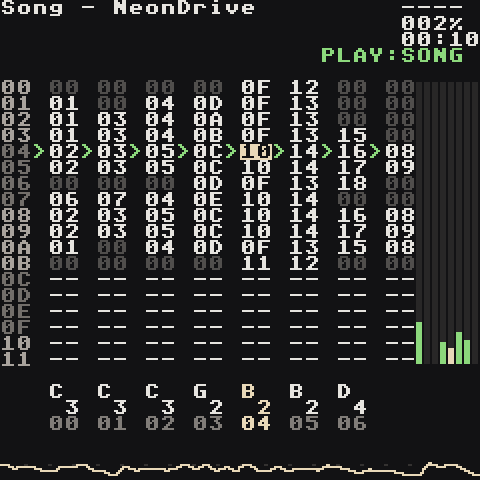
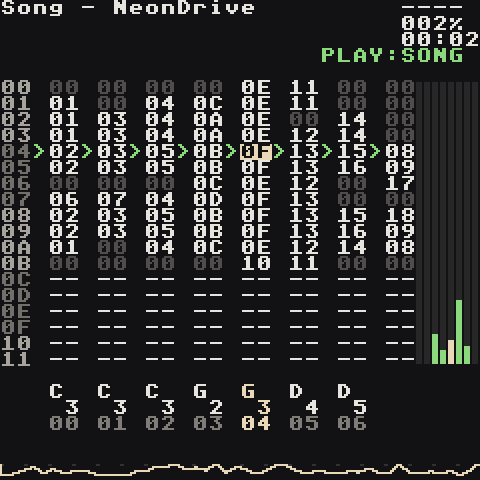
Demo Songs page for the revamped demos; Neon Drive wiki shots
Demo-Songs.md describes what each reworked demo now shows: Neon Drive's
drum-engine kit and sidechained bass, Jade Sword's PHYS temple bell and
counter-melody, Pixel Quest's table arpeggios and key change, Engine
Room's two sections, Sunset Club's swing, sidechain on a sample, congas
and horn hook, with the new lengths. The Samples page links to the renamed
Sunset Club heading, and the in-app guide is rebuilt.

capture_wiki_screens.py --demo NeonDrive re-shoots just one demo's screens
after the song changes; the Neon Drive shots are refreshed with it.

Claude-Session: https://claude.ai/code/session_012C3tn4FZYYhhPVgyuumQvx

diff --git a/tools/capture_wiki_screens.py b/tools/capture_wiki_screens.py
@@ -7,10 +7,12 @@ in docs/rgnano-wiki/images/.
 
 Usage:
     python tools/capture_wiki_screens.py
+    python tools/capture_wiki_screens.py --demo NeonDrive   # only that demo's screens
 """
 
 from __future__ import annotations
 
+import argparse
 import shutil
 import subprocess
 import sys
@@ -54,10 +56,33 @@ def run_demo(name: str, script: Path) -> None:
             last.write_text(saved)
 
 
+DEMO_SCRIPTS = {"NeonDrive": "wiki-shots-demo.rgsim", "Afterglow": "wiki-shots-afterglow.rgsim"}
+
+
+def convert() -> int:
+    """Every wiki-*.bmp capture -> a crisp 2x PNG in the wiki's images."""
+    count = 0
+    for bmp in sorted(ROOT.glob("wiki-*.bmp")):
+        img = Image.open(bmp).convert("RGB")
+        img = img.resize((img.width * 2, img.height * 2), Image.NEAREST)
+        img.save(IMAGES / (bmp.stem.replace("wiki-", "") + ".png"), optimize=True)
+        bmp.unlink()
+        count += 1
+    print(f"wrote {count} screenshots to {IMAGES}")
+    return count
+
+
 def main() -> int:
+    parser = argparse.ArgumentParser(description=__doc__, formatter_class=argparse.RawDescriptionHelpFormatter)
+    parser.add_argument("--demo", choices=sorted(DEMO_SCRIPTS),
+                        help="only re-shoot this demo song's screens (after changing the song)")
+    args = parser.parse_args()
     IMAGES.mkdir(parents=True, exist_ok=True)
     for old in ROOT.glob("wiki-*.bmp"):
         old.unlink()
+    if args.demo:
+        run_demo(args.demo, SCRIPTS / DEMO_SCRIPTS[args.demo])
+        return 0 if convert() else 1
 
     # Shoot the start screen with only the demo songs listed, not the
     # throwaway projects earlier sim runs leave behind
@@ -79,18 +104,9 @@ def main() -> int:
             parked.rename(tracks)
 
     # Demo screens: open each demo through AUTO_LOAD_LAST
-    for demo_name, script in (("NeonDrive", "wiki-shots-demo.rgsim"), ("Afterglow", "wiki-shots-afterglow.rgsim")):
+    for demo_name, script in DEMO_SCRIPTS.items():
         run_demo(demo_name, SCRIPTS / script)
-
-    count = 0
-    for bmp in sorted(ROOT.glob("wiki-*.bmp")):
-        img = Image.open(bmp).convert("RGB")
-        img = img.resize((img.width * 2, img.height * 2), Image.NEAREST)
-        img.save(IMAGES / (bmp.stem.replace("wiki-", "") + ".png"), optimize=True)
-        bmp.unlink()
-        count += 1
-    print(f"wrote {count} screenshots to {IMAGES}")
-    return 0 if count else 1
+    return 0 if convert() else 1
 
 
 if __name__ == "__main__":

diff --git a/docs/rgnano-wiki/Demo-Songs.md b/docs/rgnano-wiki/Demo-Songs.md
@@ -36,22 +36,27 @@ The melodic house track [Your First Song](Your-First-Song) builds press by press
 
 `lgpt_NeonDrive` · A minor · 100 BPM · 1:55
 
+A night drive: an 80s drum machine with a huge snare, a pumping octave bass, a glassy arpeggio and a singing lead.
+
 | Track | Part |
 | --- | --- |
-| 1 | kick (half-time verses, four-on-the-floor choruses) |
-| 2 | snare with reverb, fill at the end of every 4 bars |
-| 3 | hats, accented 16ths in the chorus |
-| 4 | octave-jumping 8th-note bass |
-| 5 | pad chords, one note + `CHRD` per bar |
-| 6 | pluck arpeggio |
-| 7 | lead melody (a bell takes it in the break) |
-| 8 | crash and tom fills |
+| 1 | DRUM engine `909 kick` (half-time verses, four on the floor in the choruses) |
+| 2 | DRUM engine `909 snare` with a big reverb send, a fill every 4 bars |
+| 3 | DRUM engine `808 hat`, 8ths in the verses; accented 16ths and `808 open` offbeats in the choruses |
+| 4 | octave-jumping 8th-note bass, **ducked by the kick** (MOD `trig`, `source 1`) |
+| 5 | pad chords, one note + `CHRD` per bar, voiced around A3 with its lows cut (EQ) |
+| 6 | pluck arpeggio above the pad (every other 16th in the verses) |
+| 7 | lead melody, an octave up for the choruses (a bell takes it in the break and doubles it in the last chorus) |
+| 8 | crash, tom fills and the bell |
 
 **Look at:**
-- **Song rows 00–0B** — each row is a section: intro, verse, chorus, break, build, outro.
+- **Song rows 00–0B** — each row is a section: intro, verse, chorus, break, build, chorus, outro.
+- **The sidechain pump** — instrument `03`'s MOD page: a `trig` slot on `volume`, `amount -90`, fired by track 1. The bass plays on the kicks but dips out of their way, so the low end stays clear.
 - **Track 6 in the intro** — only the first note has an instrument number, so the `FCUT 60C0` filter sweep keeps opening across four bars.
-- **Track 5** — chords are voiced as inversions (`C 3` + `CHRD 0059`), so they move smoothly instead of jumping.
+- **Track 5** — chords are voiced as inversions (one note + `CHRD`), so they move smoothly instead of jumping.
+- **The lead** — `LEGA` slides into the verse notes, `VIBR` makes the long ones sing.
 - **The build** — a snare crescendo with `VOLM`, then `RTRG 0003` for a 32nd-note roll into the drop.
+- **The mixer, master EQ and limiter are untouched**: the whole balance is instrument volumes and sends.
 
 ## Jade Sword — wuxia / donghua
 
@@ -64,15 +69,16 @@ Neon Drive's song map re-scored for a martial-arts epic, played on **recordings 
 | 1 | dagu (big drum) with rim hits |
 | 2 | Beijing-opera percussion: bangu clapper drum, small gong, cymbals |
 | 3 | temple block in the verses, pipa plucks in the second chorus |
-| 4 | sub bass on the chord roots (synth) |
-| 5 | soft string pad (synth) |
-| 6 | guzheng — flowing broken chords and glissandos |
+| 4 | sub bass on the chord roots (synth), kept under the drum |
+| 5 | soft string pad (synth), lows cut with its EQ |
+| 6 | guzheng — flowing broken chords from the chord root up, and glissandos |
 | 7 | erhu — the chorus melody |
-| 8 | dizi flute in the verses, the big opera gong on section starts |
+| 8 | dizi flute in the verses and a high counter-melody in the last chorus; the opera gong and a PHYS `temple bell` in the intro, break and ending |
 
 **Look at:**
 - **Every melody uses only A C D E G** — the pentatonic scale is what makes it sound Chinese.
 - **Sample instruments** — open any of them: each plays one recording, repitched from its `root` note. Erhu and dizi have two recordings each (low and high) so no note is stretched too far.
+- **The temple bell is not a recording** — instrument `0F` is the PHYS engine's struck model with `material` near metal: turn `material` down and it becomes wood, glass or a drum skin.
 - **Grace notes** — a quick step into a melody note (`D4 E4` at the start of a bar) is how erhu and dizi players ornament.
 - **Soft second plucks** — in the break the guzheng plucks its long notes again with `VOLM 50`, like a player letting the string ring. (Fast `RTRG` on a recorded instrument stutters, so it's saved for drums.)
 - **Glissando** — a fast pentatonic run with rising `VOLM` before the chorus.
@@ -82,29 +88,60 @@ The recordings are CC0 and CC BY 4.0 from Freesound; `CREDITS.md` in the song fo
 
 ## Pixel Quest — chiptune
 
-`lgpt_PixelQuest` · C major · 140 BPM · 1:02
+`lgpt_PixelQuest` · C major · 140 BPM · 1:15
+
+An 8-bit adventure theme: title screen, verse, chorus, a minor-key bridge, a key change and a "stage clear" jingle. Every sound is the WAV engine.
+
+| Track | Part |
+| --- | --- |
+| 1 | WAV `zap`: a sine with a pitch drop, the chip kick |
+| 2 | WAV noise snare, a `VOLM` crescendo and `RTRG` stutter in the build |
+| 3 | WAV `noise hat`, ghost 16ths with `CHNC` in the choruses |
+| 4 | WAV `chip bass` (triangle): the root on the downbeat, octave jumps between the kicks |
+| 5 | WAV `chip lead` (25% pulse), `VIBR` on long notes |
+| 6 | the arpeggio, played by **tables** |
+| 7 | the lead again, a 16th late (`DLAY 0003`) on a 50% pulse, panned right |
+| 8 | WAV `lofi bell`: the bridge melody |
 
 **Look at:**
-- **`ARPG 0047` / `0037`** — one held note becomes a buzzing 8-bit chord.
-- **Drums from basic waves** — a triangle with a pitch drop for the kick, crunchy noise for snare and hats.
-- **Echo lead** — track 7 plays the same melody with `DLAY 0003` and a delay send: a cheap stereo double.
+- **Tables `00` and `01`** — a custom arpeggio: `PTCH` 0, +4, +7, +12, +7, +4, then `HOP` back, one row every 3 ticks (`TICK 0003` in the table). Table `01` is the minor one (+3). Each arp bar holds one note and starts a table with `TABL`.
+- **`ARPG 0047`** — the title fanfare and the ending use the classic one-note chord on the lead instead.
+- **The key change** — `TRSP 0002` in row 08 lifts the last choruses a whole tone; the very first step of the song has `TRSP 0000`, so every play starts in C again.
+- **Mix** — Mixer levels (tune on top, arp behind), master EQ and a light limiter.
 
 ## Engine Room — the stress test
 
-`lgpt_EngineRoom` · A minor · 100 BPM · 0:38 loop
+`lgpt_EngineRoom` · A minor · 100 BPM · 0:58 loop
 
 Every heavy sound at once, on all 8 tracks the whole time: Macro Synth drums, FM4 bass, a HyperSynth pad (a six-note chord of detuned saws), FM4 e-piano chords (`CHRD` makes four FM voices per note), a HyperSynth lead and sampled piano, with chorus, echo, reverb, the master EQ and the limiter all working. If this plays cleanly, anything you write will. The device log's `[HEARTBEAT]` lines show the audio engine's `load peak` while it plays.
 
-## Sunset Club — house
+It's mixed like a real track even so: two sections (Am F C G, then F G Em Am with the lead an octave up) with turnaround fills, the bass between the kicks, and the pad and piano with their lows cut so the low end stays with the kick and bass.
 
-`lgpt_SunsetClub` · A minor · 124 BPM · 1:02
+## Sunset Club — disco house
 
-Played on the [sample packs](Samples#sample-packs): 909 drums, piano chords and a finger bass.
+`lgpt_SunsetClub` · A minor · 124 BPM with swing · 1:48
+
+Played entirely on the [sample packs](Samples#sample-packs): 909 drums, congas and a shaker, piano and string chords, a finger bass and a trumpet.
+
+| Track | Part |
+| --- | --- |
+| 1 | 909 kick, four on the floor |
+| 2 | 909 clap on 2 and 4, a `ROLL` into the drop |
+| 3 | 909 hats, swung 16ths |
+| 4 | open hat on the offbeats, shaker, congas; the riser and crash |
+| 5 | finger bass on the offbeats, its EQ lifting the lows |
+| 6 | house piano stabs (min7 / maj7 one-shots) |
+| 7 | string chords, ducked by the kick |
+| 8 | the trumpet hook, call and response |
 
 **Look at:**
 - **Four on the floor** — the kick on every beat (steps `0 4 8 C`), the clap on 2 and 4, the open hat on every offbeat (`2 6 A E`).
+- **Swing** — Groove `00` is `07 05`: every second 16th lands late, which makes the hats and congas bounce.
 - **House piano** — one-shot min7/maj7 chords chopped into syncopated stabs, each cut short with `KILL`.
-- **The bass between the kicks** — it plays the offbeats, so bass and kick never fight.
+- **The bass between the kicks** — it plays the offbeats, so bass and kick never fight. Its EQ page boosts the lows the recording is thin on.
+- **Sidechain on a sample** — the string chords have a MOD `trig` slot fired by track 1: they dip on every kick, the house pump.
+- **Room for everyone** — the piano and strings cut their lows with the instrument EQ.
+- **Song rows 00–0D** — intro, groove, bass, piano, horn, breakdown, build, drop ×3, a DJ break with just kick, bass and congas, outro.
 
 ## Make them yours
 

diff --git a/docs/rgnano-wiki/Samples.md b/docs/rgnano-wiki/Samples.md
@@ -26,7 +26,7 @@ The install puts a set of packs in `Applications/Samples`, one folder each. Melo
 | `textures` | vinyl crackle, tape hiss, a riser |
 | `chinese` | guzheng, erhu, dizi, pipa, dagu and opera percussion |
 
-The orchestral recordings come from the Versilian Studios Community Edition (CC0). The Chinese instruments are CC0 and CC BY 4.0 recordings from Freesound. The drums, guitar, bass, e-piano, chords and textures are synthesized for this project. Each folder's `CREDITS.md` has the details. [Sunset Club](Demo-Songs#sunset-club--house) and [Jade Sword](Demo-Songs#jade-sword--wuxia--donghua) show them in songs.
+The orchestral recordings come from the Versilian Studios Community Edition (CC0). The Chinese instruments are CC0 and CC BY 4.0 recordings from Freesound. The drums, guitar, bass, e-piano, chords and textures are synthesized for this project. Each folder's `CREDITS.md` has the details. [Sunset Club](Demo-Songs#sunset-club--disco-house) and [Jade Sword](Demo-Songs#jade-sword--wuxia--donghua) show them in songs.
 
 ## Turn a slot into a sampler
 
